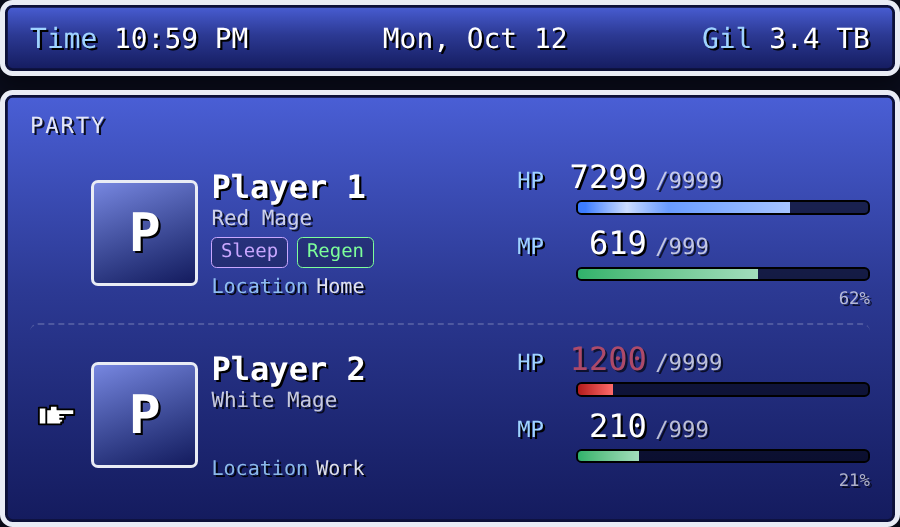
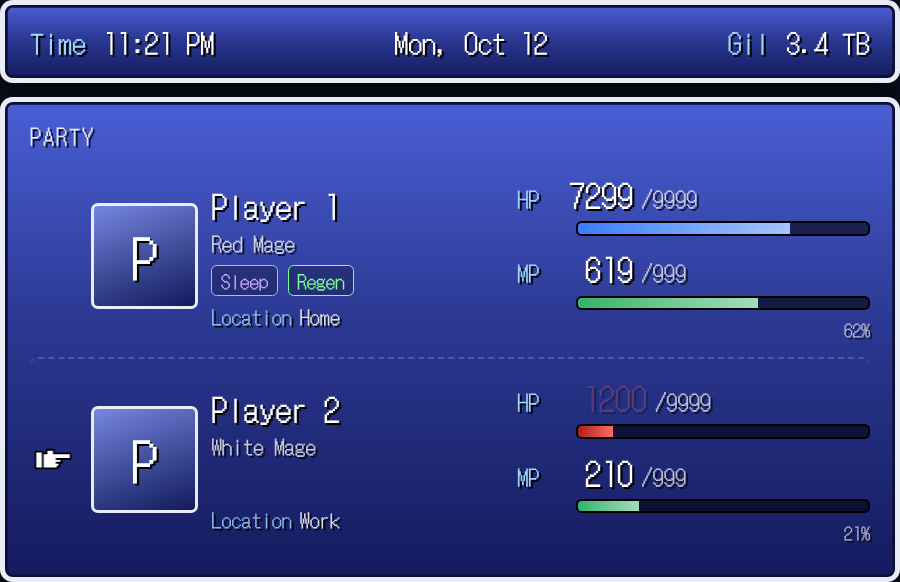
v2.1.0: FF-style font presets and custom font files
DotGothic16 is the new default font, the editor gets a font picker with
six size-matched pixel fonts, and font_url loads a font file of your own.

Claude-Session: https://claude.ai/code/session_01Xcfz1MspjCLxe9SmWGPkdZ

diff --git a/demo/preview.html b/demo/preview.html
@@ -57,20 +57,66 @@ p.hint{max-width:900px;margin:16px auto 0;opacity:.6;font-size:13px}
  *   URL: /local/ff-party/ff-party-card.js?v=5   Type: JavaScript module
  */
 (() => {
-  const VERSION = "2.0.0";
-  const FONT_URL =
-    "https://fonts.googleapis.com/css2?family=Pixelify+Sans:wght@400;600&display=swap";
+  const VERSION = "2.1.0";
+
+  // Free pixel fonts from Google Fonts. `size` evens out how big each one looks.
+  const FONTS = {
+    dotgothic:  { label: "DotGothic16 (SNES-era JRPG)", family: "'DotGothic16'",    google: "DotGothic16",                size: 1 },
+    pixelify:   { label: "Pixelify Sans (rounded)",     family: "'Pixelify Sans'",  google: "Pixelify+Sans:wght@400;600", size: 1 },
+    pressstart: { label: "Press Start 2P (NES / FF1)",  family: "'Press Start 2P'", google: "Press+Start+2P",             size: 0.78 },
+    silkscreen: { label: "Silkscreen (all caps)",       family: "'Silkscreen'",     google: "Silkscreen:wght@400;700",    size: 0.9 },
+    vt323:      { label: "VT323 (terminal)",            family: "'VT323'",          google: "VT323",                      size: 1.25 },
+    jersey:     { label: "Jersey 10 (tall arcade)",     family: "'Jersey 10'",      google: "Jersey+10",                  size: 1.2 },
+  };
+  const CUSTOM_FAMILY = "FF Party Custom";
 
   // ───────────────────────── helpers ─────────────────────────
 
-  // Fonts declared inside a shadow root are ignored by Chrome, so load it on the page.
-  function ensureFont() {
-    if (document.getElementById("ff-party-card-font")) return;
-    const link = document.createElement("link");
-    link.id = "ff-party-card-font";
-    link.rel = "stylesheet";
-    link.href = FONT_URL;
-    document.head.appendChild(link);
+  function addToHead(id, make) {
+    if (document.getElementById(id)) return;
+    const el = make();
+    el.id = id;
+    document.head.appendChild(el);
+  }
+
+  // Fonts declared inside a shadow root are ignored by Chrome, so load them on the page.
+  // Returns the CSS font-family and size factor to use.
+  function resolveFont(c) {
+    const fallback = ", 'DotGothic16', monospace";
+    if (c.font_url) {
+      const url = String(c.font_url);
+      const id = "ff-party-card-font-custom-" + url.replace(/[^a-z0-9]/gi, "").slice(-40);
+      if (/\.css(\?|$)/i.test(url)) {
+        addToHead(id, () => Object.assign(document.createElement("link"), { rel: "stylesheet", href: url }));
+        // A stylesheet names its own family, so use the font setting as that name.
+        const fam = FONTS[c.font] ? FONTS[c.font].family : c.font;
+        return { family: (fam || `'${CUSTOM_FAMILY}'`) + fallback, size: 1 };
+      }
+      addToHead(id, () => {
+        const s = document.createElement("style");
+        s.textContent = `@font-face { font-family: "${CUSTOM_FAMILY}"; src: url("${url.replace(/["\\]/g, "")}"); font-display: swap; }`;
+        return s;
+      });
+      return { family: `'${CUSTOM_FAMILY}'` + fallback, size: 1 };
+    }
+    const preset = FONTS[c.font];
+    if (preset) {
+      addToHead("ff-party-card-font-" + c.font, () =>
+        Object.assign(document.createElement("link"), {
+          rel: "stylesheet",
+          href: `https://fonts.googleapis.com/css2?family=${preset.google}&display=swap`,
+        })
+      );
+      return { family: preset.family + fallback, size: preset.size };
+    }
+    // Anything else is treated as a CSS font-family you've loaded yourself.
+    addToHead("ff-party-card-font-dotgothic", () =>
+      Object.assign(document.createElement("link"), {
+        rel: "stylesheet",
+        href: `https://fonts.googleapis.com/css2?family=${FONTS.dotgothic.google}&display=swap`,
+      })
+    );
+    return { family: (c.font || FONTS.dotgothic.family) + fallback, size: 1 };
   }
 
   const esc = (s) =>
@@ -167,7 +213,8 @@ p.hint{max-width:900px;margin:16px auto 0;opacity:.6;font-size:13px}
     gil_label: "Gil",
     gil_decimals: null,
     gil_unit: true,
-    font: "'Pixelify Sans', 'VT323', monospace",
+    font: "dotgothic", // a preset from FONTS, or any CSS font-family
+    font_url: null,    // optional: your own .ttf/.woff/.woff2 (or a .css stylesheet) to load
     scale: 1,
   };
 
@@ -180,9 +227,14 @@ p.hint{max-width:900px;margin:16px auto 0;opacity:.6;font-size:13px}
   const CSS = `
     :host { display: block; }
     ha-card { display: block; background: none; border: none; box-shadow: none; overflow: visible; }
-    .ff { container-type: inline-size; font-family: var(--ff-font); color: var(--ff-text); --edge: var(--ff-border); }
+    .ff {
+      container-type: inline-size; font-family: var(--ff-font); color: var(--ff-text); --edge: var(--ff-border);
+      font-synthesis: none; /* fake bold looks smeared on pixel fonts */
+      -webkit-font-smoothing: none;
+    }
     .inner {
-      font-size: clamp(calc(13px * var(--ff-scale)), calc(3.1cqw * var(--ff-scale)), calc(30px * var(--ff-scale)));
+      --s: calc(var(--ff-scale) * var(--ff-fscale, 1));
+      font-size: clamp(calc(13px * var(--s)), calc(3.1cqw * var(--s)), calc(30px * var(--s)));
       display: flex; flex-direction: column; gap: .5em;
     }
 
@@ -518,14 +570,14 @@ p.hint{max-width:900px;margin:16px auto 0;opacity:.6;font-size:13px}
       const sig = JSON.stringify(model);
       if (sig === this._sig) return; // nothing changed, keep animations running smoothly
       this._sig = sig;
-      ensureFont();
-
       const c = this._config;
+      const font = resolveFont(c);
       const t = THEMES[c.theme] || THEMES.classic;
       const col = (key, themeKey) => toColor(c[key]) || t[themeKey];
       const vars = [
-        `--ff-font:${c.font || DEFAULTS.font}`,
+        `--ff-font:${font.family}`,
         `--ff-scale:${num(c.scale, 1)}`,
+        `--ff-fscale:${font.size}`,
         `--ff-win-top:${col("color_window_top", "window_top")}`,
         `--ff-win-bottom:${col("color_window_bottom", "window_bottom")}`,
         `--ff-border:${col("color_border", "border")}`,
@@ -575,7 +627,7 @@ p.hint{max-width:900px;margin:16px auto 0;opacity:.6;font-size:13px}
     low: "Low HP warning (%)", critical: "Critical HP (%)", hp_note: "Text under HP bar", mp_note: "Text under MP bar",
     sleep_start: "Sleep starts (hour, 0-23)", sleep_end: "Sleep ends (hour, 0-23)", offline_hours: "KO after offline (hours, 0 = never)",
     home_label: "Home location text", away_label: "Away location text", builtin_statuses: "Built-in statuses (Regen, Sleep, Silence, Slow)",
-    font: "Font (CSS font-family)", scale: "Size",
+    font: "Font", font_url: "Custom font file URL", scale: "Size",
     color_window_top: "Window top", color_window_bottom: "Window bottom", color_border: "Border", color_text: "Text",
     color_label: "Labels", color_hp: "HP bar", color_mp: "MP bar",
     name: "Name", job: "Job / subtitle", person: "Person (location + picture)", image: "Portrait image URL",
@@ -590,6 +642,8 @@ p.hint{max-width:900px;margin:16px auto 0;opacity:.6;font-size:13px}
     mp_max: "Sensor value that counts as full (100 for %, 8000 for steps)",
     image: "e.g. /local/ff-party/player1.png. Leave blank to use the person's picture.",
     gil: "Shown in the time bar, e.g. free space on your NAS",
+    font: "Pick a preset, or type the name of a font you've loaded yourself",
+    font_url: "Optional. A .ttf / .woff / .woff2 file, e.g. /local/ff-party/myfont.ttf. Overrides the font above.",
   };
   const noteOptions = [
     { value: "none", label: "Nothing" },
@@ -614,9 +668,11 @@ p.hint{max-width:900px;margin:16px auto 0;opacity:.6;font-size:13px}
     ],
     theme: [
       { type: "grid", name: "", schema: [
-        { name: "font", selector: { text: {} } },
+        { name: "font", selector: { select: { mode: "dropdown", custom_value: true,
+          options: Object.entries(FONTS).map(([k, v]) => ({ value: k, label: v.label })) } } },
         { name: "scale", selector: { number: { min: 0.5, max: 2, step: 0.05, mode: "slider" } } },
       ] },
+      { name: "font_url", selector: { text: {} } },
       { type: "grid", name: "", schema: [
         colorField("color_window_top"), colorField("color_window_bottom"),
         colorField("color_border"), colorField("color_text"),

diff --git a/ff-party-card.js b/ff-party-card.js
@@ -13,20 +13,66 @@
  *   URL: /local/ff-party/ff-party-card.js?v=5   Type: JavaScript module
  */
 (() => {
-  const VERSION = "2.0.0";
-  const FONT_URL =
-    "https://fonts.googleapis.com/css2?family=Pixelify+Sans:wght@400;600&display=swap";
+  const VERSION = "2.1.0";
+
+  // Free pixel fonts from Google Fonts. `size` evens out how big each one looks.
+  const FONTS = {
+    dotgothic:  { label: "DotGothic16 (SNES-era JRPG)", family: "'DotGothic16'",    google: "DotGothic16",                size: 1 },
+    pixelify:   { label: "Pixelify Sans (rounded)",     family: "'Pixelify Sans'",  google: "Pixelify+Sans:wght@400;600", size: 1 },
+    pressstart: { label: "Press Start 2P (NES / FF1)",  family: "'Press Start 2P'", google: "Press+Start+2P",             size: 0.78 },
+    silkscreen: { label: "Silkscreen (all caps)",       family: "'Silkscreen'",     google: "Silkscreen:wght@400;700",    size: 0.9 },
+    vt323:      { label: "VT323 (terminal)",            family: "'VT323'",          google: "VT323",                      size: 1.25 },
+    jersey:     { label: "Jersey 10 (tall arcade)",     family: "'Jersey 10'",      google: "Jersey+10",                  size: 1.2 },
+  };
+  const CUSTOM_FAMILY = "FF Party Custom";
 
   // ───────────────────────── helpers ─────────────────────────
 
-  // Fonts declared inside a shadow root are ignored by Chrome, so load it on the page.
-  function ensureFont() {
-    if (document.getElementById("ff-party-card-font")) return;
-    const link = document.createElement("link");
-    link.id = "ff-party-card-font";
-    link.rel = "stylesheet";
-    link.href = FONT_URL;
-    document.head.appendChild(link);
+  function addToHead(id, make) {
+    if (document.getElementById(id)) return;
+    const el = make();
+    el.id = id;
+    document.head.appendChild(el);
+  }
+
+  // Fonts declared inside a shadow root are ignored by Chrome, so load them on the page.
+  // Returns the CSS font-family and size factor to use.
+  function resolveFont(c) {
+    const fallback = ", 'DotGothic16', monospace";
+    if (c.font_url) {
+      const url = String(c.font_url);
+      const id = "ff-party-card-font-custom-" + url.replace(/[^a-z0-9]/gi, "").slice(-40);
+      if (/\.css(\?|$)/i.test(url)) {
+        addToHead(id, () => Object.assign(document.createElement("link"), { rel: "stylesheet", href: url }));
+        // A stylesheet names its own family, so use the font setting as that name.
+        const fam = FONTS[c.font] ? FONTS[c.font].family : c.font;
+        return { family: (fam || `'${CUSTOM_FAMILY}'`) + fallback, size: 1 };
+      }
+      addToHead(id, () => {
+        const s = document.createElement("style");
+        s.textContent = `@font-face { font-family: "${CUSTOM_FAMILY}"; src: url("${url.replace(/["\\]/g, "")}"); font-display: swap; }`;
+        return s;
+      });
+      return { family: `'${CUSTOM_FAMILY}'` + fallback, size: 1 };
+    }
+    const preset = FONTS[c.font];
+    if (preset) {
+      addToHead("ff-party-card-font-" + c.font, () =>
+        Object.assign(document.createElement("link"), {
+          rel: "stylesheet",
+          href: `https://fonts.googleapis.com/css2?family=${preset.google}&display=swap`,
+        })
+      );
+      return { family: preset.family + fallback, size: preset.size };
+    }
+    // Anything else is treated as a CSS font-family you've loaded yourself.
+    addToHead("ff-party-card-font-dotgothic", () =>
+      Object.assign(document.createElement("link"), {
+        rel: "stylesheet",
+        href: `https://fonts.googleapis.com/css2?family=${FONTS.dotgothic.google}&display=swap`,
+      })
+    );
+    return { family: (c.font || FONTS.dotgothic.family) + fallback, size: 1 };
   }
 
   const esc = (s) =>
@@ -123,7 +169,8 @@
     gil_label: "Gil",
     gil_decimals: null,
     gil_unit: true,
-    font: "'Pixelify Sans', 'VT323', monospace",
+    font: "dotgothic", // a preset from FONTS, or any CSS font-family
+    font_url: null,    // optional: your own .ttf/.woff/.woff2 (or a .css stylesheet) to load
     scale: 1,
   };
 
@@ -136,9 +183,14 @@
   const CSS = `
     :host { display: block; }
     ha-card { display: block; background: none; border: none; box-shadow: none; overflow: visible; }
-    .ff { container-type: inline-size; font-family: var(--ff-font); color: var(--ff-text); --edge: var(--ff-border); }
+    .ff {
+      container-type: inline-size; font-family: var(--ff-font); color: var(--ff-text); --edge: var(--ff-border);
+      font-synthesis: none; /* fake bold looks smeared on pixel fonts */
+      -webkit-font-smoothing: none;
+    }
     .inner {
-      font-size: clamp(calc(13px * var(--ff-scale)), calc(3.1cqw * var(--ff-scale)), calc(30px * var(--ff-scale)));
+      --s: calc(var(--ff-scale) * var(--ff-fscale, 1));
+      font-size: clamp(calc(13px * var(--s)), calc(3.1cqw * var(--s)), calc(30px * var(--s)));
       display: flex; flex-direction: column; gap: .5em;
     }
 
@@ -474,14 +526,14 @@
       const sig = JSON.stringify(model);
       if (sig === this._sig) return; // nothing changed, keep animations running smoothly
       this._sig = sig;
-      ensureFont();
-
       const c = this._config;
+      const font = resolveFont(c);
       const t = THEMES[c.theme] || THEMES.classic;
       const col = (key, themeKey) => toColor(c[key]) || t[themeKey];
       const vars = [
-        `--ff-font:${c.font || DEFAULTS.font}`,
+        `--ff-font:${font.family}`,
         `--ff-scale:${num(c.scale, 1)}`,
+        `--ff-fscale:${font.size}`,
         `--ff-win-top:${col("color_window_top", "window_top")}`,
         `--ff-win-bottom:${col("color_window_bottom", "window_bottom")}`,
         `--ff-border:${col("color_border", "border")}`,
@@ -531,7 +583,7 @@
     low: "Low HP warning (%)", critical: "Critical HP (%)", hp_note: "Text under HP bar", mp_note: "Text under MP bar",
     sleep_start: "Sleep starts (hour, 0-23)", sleep_end: "Sleep ends (hour, 0-23)", offline_hours: "KO after offline (hours, 0 = never)",
     home_label: "Home location text", away_label: "Away location text", builtin_statuses: "Built-in statuses (Regen, Sleep, Silence, Slow)",
-    font: "Font (CSS font-family)", scale: "Size",
+    font: "Font", font_url: "Custom font file URL", scale: "Size",
     color_window_top: "Window top", color_window_bottom: "Window bottom", color_border: "Border", color_text: "Text",
     color_label: "Labels", color_hp: "HP bar", color_mp: "MP bar",
     name: "Name", job: "Job / subtitle", person: "Person (location + picture)", image: "Portrait image URL",
@@ -546,6 +598,8 @@
     mp_max: "Sensor value that counts as full (100 for %, 8000 for steps)",
     image: "e.g. /local/ff-party/player1.png. Leave blank to use the person's picture.",
     gil: "Shown in the time bar, e.g. free space on your NAS",
+    font: "Pick a preset, or type the name of a font you've loaded yourself",
+    font_url: "Optional. A .ttf / .woff / .woff2 file, e.g. /local/ff-party/myfont.ttf. Overrides the font above.",
   };
   const noteOptions = [
     { value: "none", label: "Nothing" },
@@ -570,9 +624,11 @@
     ],
     theme: [
       { type: "grid", name: "", schema: [
-        { name: "font", selector: { text: {} } },
+        { name: "font", selector: { select: { mode: "dropdown", custom_value: true,
+          options: Object.entries(FONTS).map(([k, v]) => ({ value: k, label: v.label })) } } },
         { name: "scale", selector: { number: { min: 0.5, max: 2, step: 0.05, mode: "slider" } } },
       ] },
+      { name: "font_url", selector: { text: {} } },
       { type: "grid", name: "", schema: [
         colorField("color_window_top"), colorField("color_window_bottom"),
         colorField("color_border"), colorField("color_text"),

diff --git a/README.md b/README.md
@@ -88,7 +88,8 @@ Everything here can be set in the visual editor. See [`examples/config.yaml`](ex
 | `offline_hours` | `6` | KO if nothing reports this long while unplugged (`0` = never) |
 | `home_label` / `away_label` | `Home` / `Wandering` | Location text |
 | `builtin_statuses` | `true` | Regen / Sleep / Silence / Slow |
-| `font` | Pixelify Sans | CSS font-family |
+| `font` | `dotgothic` | `dotgothic`, `pixelify`, `pressstart`, `silkscreen`, `vt323`, `jersey`, or any CSS font-family you've loaded |
+| `font_url` | — | Your own font file (`.ttf` / `.woff` / `.woff2`) or a `.css` stylesheet; overrides `font` |
 | `scale` | `1` | Overall size, 0.5–2 |
 | `color_window_top`, `color_window_bottom`, `color_border`, `color_text`, `color_label`, `color_hp`, `color_mp` | from theme | Color overrides (hex or `[r, g, b]`) |
 | `tap_action` / `hold_action` | more-info / — | Defaults for all members |
@@ -125,6 +126,12 @@ statuses:
 ```
 
 With no `state`, `above`, or `below`, the status shows whenever the entity is on.
+
+## Fonts
+
+The default is **DotGothic16**, a free pixel font that's close to the SNES-era Final Fantasy menus. Other presets are in the editor's font dropdown.
+
+To use a font file of your own (for example a fan-made FF font you've downloaded), put it in `www/ff-party/` and set **Custom font file URL** to something like `/local/ff-party/myfont.ttf`. Check the font's license before sharing it.
 
 ## Demo
 

diff --git a/CHANGELOG.md b/CHANGELOG.md
@@ -1,5 +1,11 @@
 # Changelog
 
+## 2.1.0
+- New default font: DotGothic16, closer to the SNES-era Final Fantasy menus.
+- Font picker in the editor with six pixel-font presets, each size-matched.
+- `font_url` loads your own font file (.ttf / .woff / .woff2) or a stylesheet.
+- No more smeared fake-bold on pixel fonts.
+
 ## 2.0.0
 - Visual card editor: party settings, theme, advanced options, and a member list you can add to, reorder, and remove from.
 - HP and MP can come from any sensor, with an "empty at" / "full at" range.
